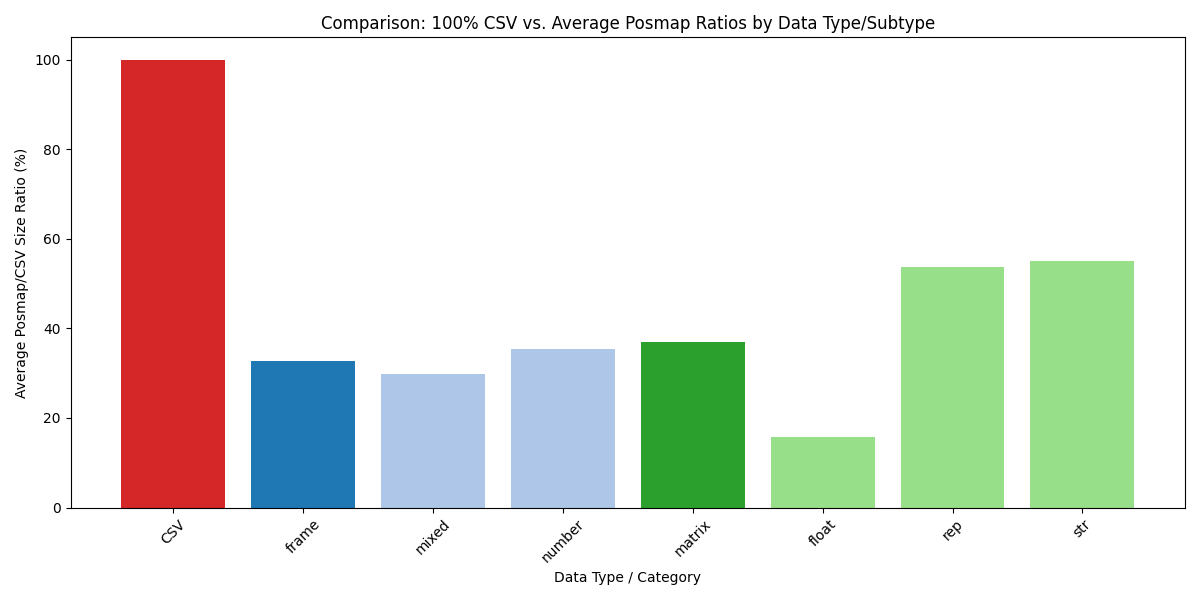
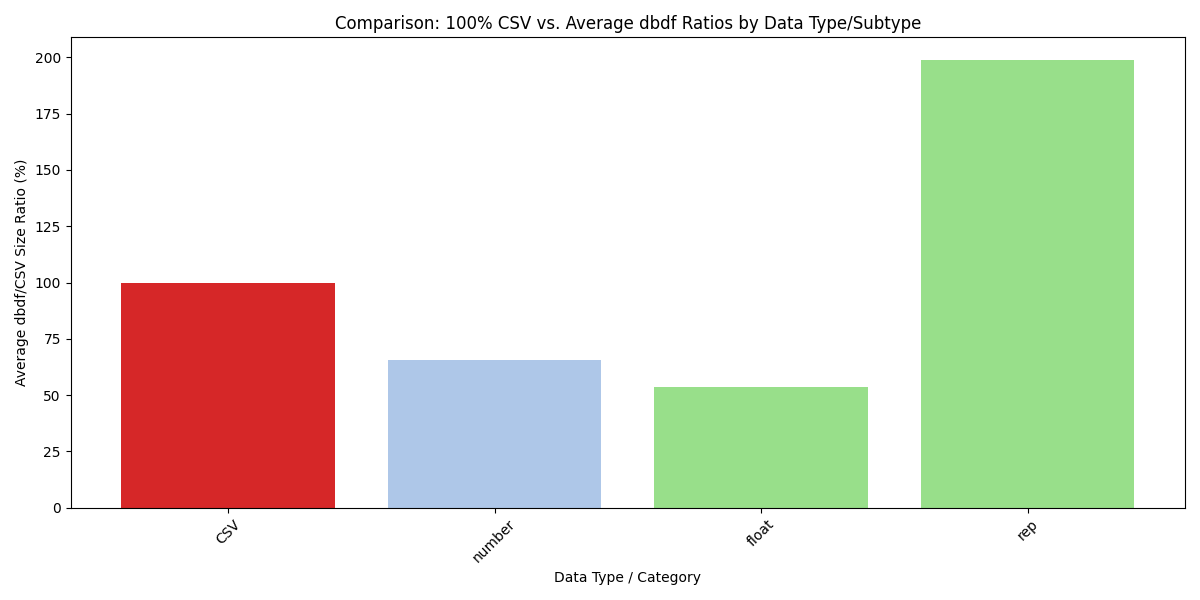
finished evaluation

diff --git a/evaluation/build-charts.py b/evaluation/build-charts.py
@@ -92,7 +92,7 @@ plt.yscale("log")  # Added: logarithmic scale on y-axis.
 plt.legend()
 plt.grid(True, which="both", ls="--")
 plt.tight_layout()
-plt.savefig("/fig/overall_read_time.png")
+plt.savefig("fig/overall_read_time.png")
 plt.close()
 
 # Plot 2: Three read comparison per dataset size for each data type.
@@ -114,7 +114,7 @@ for dt in unique_types:
     plt.legend()
     plt.grid(True, which="both", ls="--")
     plt.tight_layout()
-    plt.savefig(f"/fig/overall_read_time_{dt}.png")
+    plt.savefig(f"fig/overall_read_time_{dt}.png")
     plt.close()
     
 # Plot 3: Breakdown for First Read (Create) – Stacked bar: Overall Read Time and dbdf Write Time.
@@ -130,23 +130,8 @@ if not agg_create.empty:
     ax.set_title("First Read Breakdown (Create): Read vs. Write dbdf")
     ax.legend()
     plt.tight_layout()
-    plt.savefig("/fig/create_read_breakdown.png")
+    plt.savefig("fig/create_read_breakdown.png")
     plt.close()
 
-# Plot 4: Breakdown for Second Read (Opt) – Stacked bar: dbdf Read Time and Overall Read Time.
-if not agg_opt.empty:
-    ind = np.arange(len(agg_opt))
-    width = 0.6
-    fig, ax = plt.subplots(figsize=(10,6))
-    p1 = ax.bar(ind, agg_opt["dbdfReadTime"], width, label="dbdf Read Time")
-    p2 = ax.bar(ind, agg_opt["ReadTime"], width, bottom=agg_opt["dbdfReadTime"], label="Overall Read Time")
-    ax.set_xticks(ind)
-    ax.set_xticklabels(agg_opt["CSVFile"], rotation=45, ha="right")
-    ax.set_ylabel("Time (seconds)")
-    ax.set_title("Second Read Breakdown (Opt): dbdf vs. Overall Read")
-    ax.legend()
-    plt.tight_layout()
-    plt.savefig("/fig/opt_read_breakdown.png")
-    plt.close()
 
 print("Charts generated and saved as PNG files.")

diff --git a/evaluation/eval-file-sizes.py b/evaluation/eval-file-sizes.py
@@ -95,12 +95,12 @@ bar_data = pd.concat([baseline, avg_main, avg_subtype_frame, avg_subtype_matrix]
 # Now order the bars:
 # We'll place baseline first, then frame: first the main frame (i.e. Type=="frame") then its subtype rows sorted alphabetically,
 # then matrix: first the main matrix value then its subtype rows sorted alphabetically.
-frame_main = bar_data[(bar_data["Group"]=="frame") & (bar_data["Type"]=="frame")]
+#frame_main = bar_data[(bar_data["Group"]=="frame") & (bar_data["Type"]=="frame")]
 frame_sub = bar_data[(bar_data["Group"]=="frame") & (bar_data["Type"]!="frame")].sort_values("Type")
-matrix_main = bar_data[(bar_data["Group"]=="matrix") & (bar_data["Type"]=="matrix")]
+#matrix_main = bar_data[(bar_data["Group"]=="matrix") & (bar_data["Type"]=="matrix")]
 matrix_sub = bar_data[(bar_data["Group"]=="matrix") & (bar_data["Type"]!="matrix")].sort_values("Type")
 
-ordered_bar_data = pd.concat([baseline, frame_main, frame_sub, matrix_main, matrix_sub], ignore_index=True)
+ordered_bar_data = pd.concat([baseline, frame_sub, matrix_sub], ignore_index=True)
 
 # Assign colors: baseline in black, frame group in blue, matrix group in green.
 def assign_color(row):
@@ -129,4 +129,4 @@ plt.ylabel("Average dbdf/CSV Size Ratio (%)")
 plt.title("Comparison: 100% CSV vs. Average dbdf Ratios by Data Type/Subtype")
 plt.xticks(rotation=45)
 plt.tight_layout()
-plt.savefig("/fig/avg_ratio_bar_chart.png")
+plt.savefig("fig/avg_ratio_bar_chart.png")
